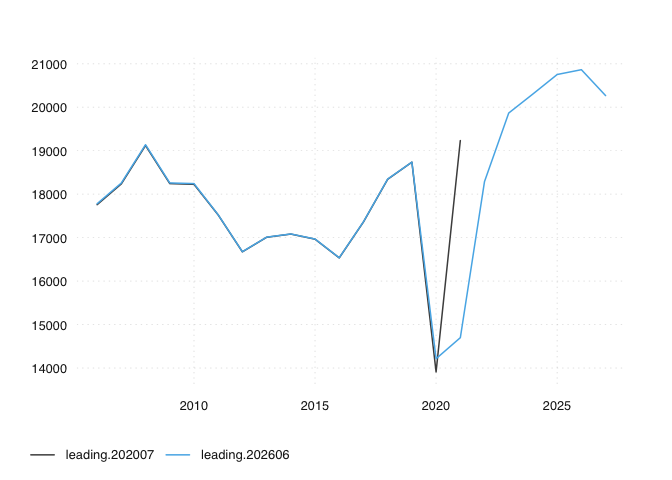
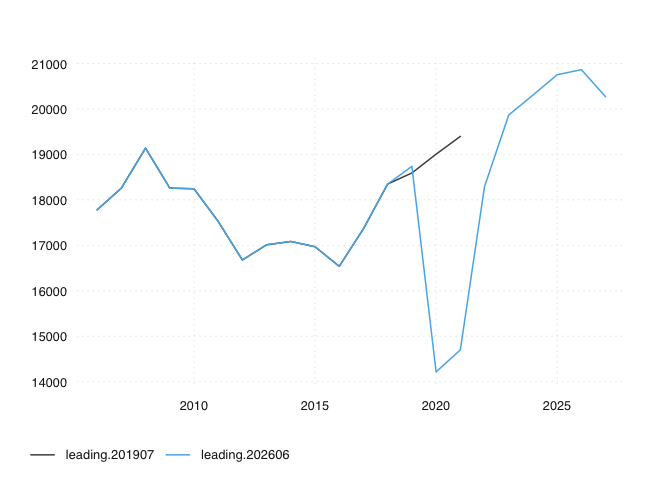
different vintage ex

diff --git a/README.md b/README.md
@@ -51,13 +51,13 @@ library(tsbox)
 ts <- read_open_ts(series = "l.all.alpin.lg",
   remote_archive = "opentsi/ch.kof.trsm.fcst.ty"
 )
-ts202007 <- read_open_ts(series = "l.all.alpin.lg",
+ts201907 <- read_open_ts(series = "l.all.alpin.lg",
   remote_archive = "opentsi/ch.kof.trsm.fcst.ty",
-  date = "2020-07-01"
+  date = "2019-07-01"
 )
-ts202007$id <- "leading.202007"
+ts201907$id <- "leading.201907"
 ts$id <- sprintf("leading.202606")
-ts_plot(rbind(ts202007, ts))
+ts_plot(rbind(ts201907, ts))
 #> [time]: 'date'
 ```
 
